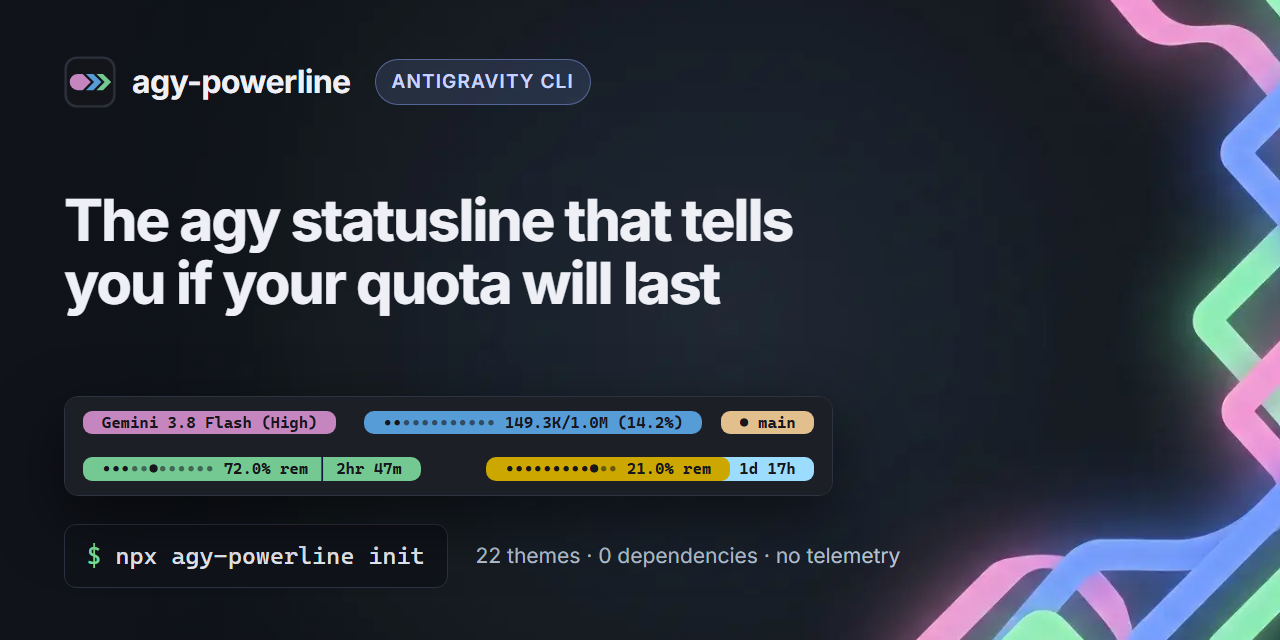
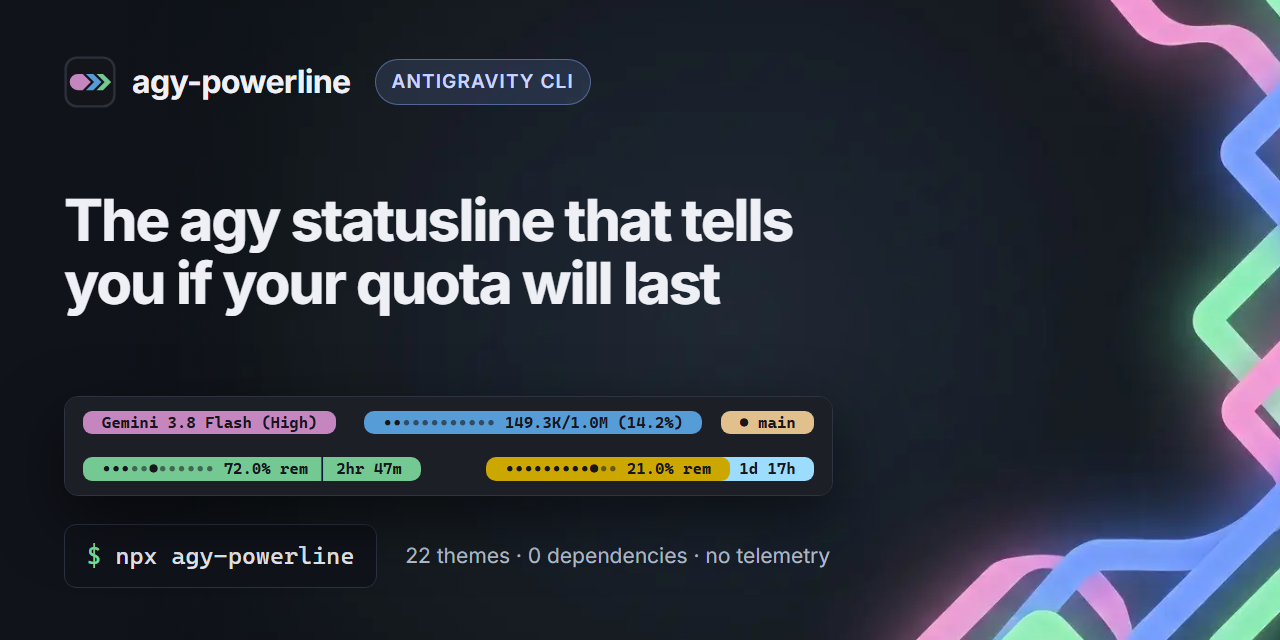
docs(site): align demo GIF, OG cards, and guides with npx agy-powerline
Follows up on #202 / #203 by updating the remaining onboarding copy,
share cards, and terminal demo that still showed `npx agy-powerline init`
or `npx agy-powerline configure` as the starting command:

- Regenerate `assets/site/og/*.jpg` and `assets/site/github-social-preview.png`
  with `$ npx agy-powerline` via updated `scripts/site/images.js`.
- Update `scripts/gallery/build.js` hero command box and `tests/shared/gallery.test.js`
  home-page install command check to `npx agy-powerline`.
- Update localized onboarding steps (`en`, `fr`, `es`, `ja`) in
  `scripts/site/home-text.js`, `scripts/site/build.js`, and
  `scripts/configurator/template.html`.
- Update `docs/faq.md` and `docs/guides/` (`add-statusline-to-antigravity-cli`,
  `antigravity-quota`, `moving-from-gemini-cli`, `workshop`) to lead with
  `npx agy-powerline` while keeping `init --yes` for scripted upgrades.
- Update `scripts/demo/demo.tape` to isolate `$env:HOME`/`$env:USERPROFILE`
  alongside `$env:AGY_POWERLINE_HOME`, run `npx agy-powerline`, and re-record
  `assets/demo.gif`.

Note: `assets/screenshots/windows.png` still needs recapture from a
non-sandboxed Windows Terminal session because `window.ps1` cannot
retain/capture visible WT windows from the isolated desktop.

Changed region(s): [[0.2812, 0.8438, 0.7188, 0.9062]]

diff --git a/scripts/site/home-text.js b/scripts/site/home-text.js
@@ -56,12 +56,12 @@ const HOME_TEXT = {
     steps: [
       [
         "Install",
-        "Needs Node.js 20 or newer and Antigravity CLI. <code>init</code> backs up agy's <code>settings.json</code> before changing it.",
-        "npx agy-powerline init",
+        "Needs Node.js 20 or newer and Antigravity CLI. Backs up agy's <code>settings.json</code> before changing it, then opens the live editor.",
+        "npx agy-powerline",
       ],
       [
         "Pick a look",
-        "Choose a preset, a layout and a theme when <code>init</code> asks, with a preview of each. Change them any time.",
+        "Browse presets, layouts, themes and widgets with a live preview during setup, or reopen the editor any time.",
         "npx agy-powerline configure",
       ],
       [
@@ -240,12 +240,12 @@ const HOME_TEXT = {
     steps: [
       [
         "Installer",
-        "Il faut Node.js 20 ou plus récent et Antigravity CLI. <code>init</code> sauvegarde le <code>settings.json</code> d'agy avant de le modifier.",
-        "npx agy-powerline init",
+        "Il faut Node.js 20 ou plus récent et Antigravity CLI. Sauvegarde le <code>settings.json</code> d'agy avant de le modifier, puis ouvre l'éditeur en direct.",
+        "npx agy-powerline",
       ],
       [
         "Choisir un style",
-        "Choisissez un préréglage, une disposition et un thème quand <code>init</code> le demande, avec un aperçu de chacun. Modifiables à tout moment.",
+        "Parcourez préréglages, dispositions, thèmes et widgets avec un aperçu en direct lors de l'installation, ou rouvrez l'éditeur à tout moment.",
         "npx agy-powerline configure",
       ],
       [
@@ -424,12 +424,12 @@ const HOME_TEXT = {
     steps: [
       [
         "Instalar",
-        "Necesita Node.js 20 o más reciente y Antigravity CLI. <code>init</code> guarda una copia del <code>settings.json</code> de agy antes de cambiarlo.",
-        "npx agy-powerline init",
+        "Necesita Node.js 20 o más reciente y Antigravity CLI. Guarda una copia del <code>settings.json</code> de agy antes de cambiarlo y abre el editor en vivo.",
+        "npx agy-powerline",
       ],
       [
         "Elegir un estilo",
-        "Elige un preajuste, un diseño y un tema cuando <code>init</code> te lo pida, con una vista previa de cada uno. Puedes cambiarlos cuando quieras.",
+        "Explora preajustes, diseños, temas y widgets con vista previa en vivo al instalar, o vuelve a abrir el editor cuando quieras.",
         "npx agy-powerline configure",
       ],
       [
@@ -600,12 +600,12 @@ const HOME_TEXT = {
     steps: [
       [
         "インストール",
-        "Node.js 20 以上と Antigravity CLI が必要です。<code>init</code> は agy の <code>settings.json</code> を変更する前にバックアップします。",
-        "npx agy-powerline init",
+        "Node.js 20 以上と Antigravity CLI が必要です。agy の <code>settings.json</code> を変更する前にバックアップし、ライブエディタを開きます。",
+        "npx agy-powerline",
       ],
       [
         "見た目を選ぶ",
-        "<code>init</code> の質問に沿って、プリセット、レイアウト、テーマをプレビューを見ながら選びます。あとからいつでも変更できます。",
+        "セットアップ中にプリセット、レイアウト、テーマ、ウィジェットをプレビューしながら選べます。あとからいつでも開き直せます。",
         "npx agy-powerline configure",
       ],
       [

diff --git a/scripts/site/build.js b/scripts/site/build.js
@@ -71,7 +71,7 @@ const MARKDOWN_PAGES = [
     name: "Install",
     title: "Install agy-powerline - agy statusline setup",
     description:
-      "Install the agy statusline with npx agy-powerline init: what init changes, the agy plugin route, installing without npm, WSL, upgrading and removing it.",
+      "Install the agy statusline with npx agy-powerline: what setup changes, the agy plugin route, installing without npm, WSL, upgrading and removing it.",
   },
   {
     source: "docs/configuration.md",
@@ -561,7 +561,7 @@ function docsIndexPage() {
           [
             "/install/",
             "Install",
-            "What npx agy-powerline init does, the plugin route, no-npm installs, WSL, upgrades.",
+            "What npx agy-powerline does, the plugin route, no-npm installs, WSL, upgrades.",
           ],
           [
             "/docs/configuration/",
@@ -772,7 +772,7 @@ function calculatorPage() {
         <p>A quota window has a fixed length: 5 hours or 7 days. The time left until the reset tells how far into the window you are; with 2 hours left of a 5-hour window, 60% of it has passed. If you've used more of the quota than that share of time, you're using it faster than time passes, and at that pace it runs out before it resets.</p>
         <p>The calculator assumes you keep the pace you've had since the window started. The bar below the inputs is the same as agy-powerline's quota meter: the filled part is the quota used, and the marker is where you are in the window. Fill past the marker means trouble.</p>
         <h2 id="in-your-terminal">See it live in your terminal</h2>
-        <p>agy-powerline draws this meter for every quota in agy's status bar and keeps it up to date while you work, with a caution color at 30% left and a danger color at 10%. Install it with <code>npx agy-powerline init</code> and read the <a href="/guides/antigravity-quota/">quota guide</a>.</p>`;
+        <p>agy-powerline draws this meter for every quota in agy's status bar and keeps it up to date while you work, with a caution color at 30% left and a danger color at 10%. Install it with <code>npx agy-powerline</code> and read the <a href="/guides/antigravity-quota/">quota guide</a>.</p>`;
   const script = `${paceCode}
 (function () {
   const P = window.AgyQuotaPace;

diff --git a/scripts/configurator/template.html b/scripts/configurator/template.html
@@ -758,10 +758,10 @@
           When it looks right, download the file and run
           <code>npx agy-powerline import statusline.config.json</code>: it shows what will change
           and asks before applying. Don't have agy-powerline yet? Run
-          <code>npx agy-powerline init</code> first (<a href="/install/">install guide</a>).
-          Everything happens in your browser: nothing is uploaded, and a share link keeps the config
-          after the <code>#</code>, which browsers never send to a server. Every option is described
-          in the <a href="/docs/configuration/">configuration reference</a>.
+          <code>npx agy-powerline</code> first (<a href="/install/">install guide</a>). Everything
+          happens in your browser: nothing is uploaded, and a share link keeps the config after the
+          <code>#</code>, which browsers never send to a server. Every option is described in the
+          <a href="/docs/configuration/">configuration reference</a>.
         </p>
       </section>
     </main>

diff --git a/scripts/site/images.js b/scripts/site/images.js
@@ -194,7 +194,7 @@ h1 { margin: 0; align-self: center; font-size: ${size}px; font-weight: 750; line
   <div class="top">${logo}<span class="brand">agy-powerline</span><span class="label">${esc(label)}</span></div>
   <h1>${esc(title)}</h1>
   <div class="term-frame" data-bg="dark"><div class="term" data-bg="dark"><div class="screen">${bar(78, lang)}</div></div></div>
-  <div class="foot"><span class="cmd"><code><span class="prompt">$ </span>npx agy-powerline init</code></span><span class="facts">${facts}</span></div>
+  <div class="foot"><span class="cmd"><code><span class="prompt">$ </span>npx agy-powerline</code></span><span class="facts">${facts}</span></div>
 </div>
 </body>
 </html>`;

diff --git a/tests/shared/gallery.test.js b/tests/shared/gallery.test.js
@@ -96,7 +96,7 @@ async function run() {
 
   record(
     "the home page leads with the install command and the configurator",
-    /<div class="cmd cmd-lg"><code tabindex="0"><span class="prompt" aria-hidden="true">\$ <\/span>npx agy-powerline init<\/code>/.test(
+    /<div class="cmd cmd-lg"><code tabindex="0"><span class="prompt" aria-hidden="true">\$ <\/span>npx agy-powerline<\/code>/.test(
       html
     ) && html.includes('href="/configure/"')
   );

diff --git a/scripts/gallery/build.js b/scripts/gallery/build.js
@@ -440,7 +440,7 @@ function buildHomeHtml({ lang = "en" } = {}) {
   const n = counts();
   const styles = styleClasses();
   const sections = {
-    INSTALL_CMD: commandBox("npx agy-powerline init", {
+    INSTALL_CMD: commandBox("npx agy-powerline", {
       label: text.copyInstall,
       copy: text.copy,
       large: true,

diff --git a/docs/faq.md b/docs/faq.md
@@ -8,15 +8,15 @@ A status line for Google Antigravity CLI (`agy`): a small Node.js script that ag
 
 ## How do I install it?
 
-Run `npx agy-powerline init` with Node.js 20 or newer, then restart agy once. `init` asks for a preset, a layout and a theme, and backs up agy's `settings.json` before changing it. See [Installation details](install.md).
+Run `npx agy-powerline` with Node.js 20 or newer, then restart agy once. It backs up agy's `settings.json` before changing it and opens the live editor to pick a preset, a layout and a theme. See [Installation details](install.md).
 
 ## Does it work on Windows?
 
-Yes: Windows, macOS, Linux and WSL. On Windows agy runs the bar through `cmd /c`, which `init` sets up for you. For WSL, install it with a Linux Node.js inside WSL ([WSL notes](install.md#wsl)).
+Yes: Windows, macOS, Linux and WSL. On Windows agy runs the bar through `cmd /c`, which `npx agy-powerline` sets up for you. For WSL, install it with a Linux Node.js inside WSL ([WSL notes](install.md#wsl)).
 
 ## Do I need to restart agy?
 
-Once, after `init`, so agy reads the new `statusLine` setting. After that, changes you make with `configure`, `theme`, `layout` or the other commands show on the bar's next refresh, without a restart.
+Once, after installing, so agy reads the new `statusLine` setting. After that, changes you make with `configure`, `theme`, `layout` or the other commands show on the bar's next refresh, without a restart.
 
 ## Does it send any data anywhere?
 
@@ -44,7 +44,7 @@ No. agy-powerline reads its config only from `~/.agy-powerline` (or the folder i
 
 ## How do I update it?
 
-Run `npx agy-powerline init --yes`, then restart agy. Your config is kept. `npx agy-powerline doctor` tells you when the installed scripts are older than the CLI. See [Upgrading](install.md#upgrading).
+Run `npx agy-powerline` (or `npx agy-powerline init --yes` without the editor), then restart agy. Your config is kept. `npx agy-powerline doctor` tells you when the installed scripts are older than the CLI. See [Upgrading](install.md#upgrading).
 
 ## Can I install it without npm?
 
@@ -52,7 +52,7 @@ Yes. Each [GitHub release](https://github.com/wassim-azi/agy-powerline/releases)
 
 ## How do I remove it?
 
-`npx agy-powerline uninstall` puts agy's own bar back; add `--delete` to remove the files `init` installed. See [Uninstalling](install.md#uninstalling).
+`npx agy-powerline uninstall` puts agy's own bar back; add `--delete` to remove the files it installed. See [Uninstalling](install.md#uninstalling).
 
 ## Where do I report a bug or ask for a feature?
 

diff --git a/docs/guides/add-statusline-to-antigravity-cli.md b/docs/guides/add-statusline-to-antigravity-cli.md
@@ -1,6 +1,6 @@
 # How to add a status line to Antigravity CLI
 
-Antigravity CLI (`agy`) can run a command of your choice to draw its status bar. You set it under `statusLine` in `~/.gemini/antigravity-cli/settings.json`; agy runs it on every refresh, pipes the session as JSON on its standard input, and shows what it prints. The quickest way to set one up is `npx agy-powerline init`, then one restart of agy.
+Antigravity CLI (`agy`) can run a command of your choice to draw its status bar. You set it under `statusLine` in `~/.gemini/antigravity-cli/settings.json`; agy runs it on every refresh, pipes the session as JSON on its standard input, and shows what it prints. The quickest way to set one up is `npx agy-powerline`, then one restart of agy.
 
 - [The one-command setup](#the-one-command-setup)
 - [The statusLine setting](#the-statusline-setting)
@@ -13,10 +13,10 @@ Antigravity CLI (`agy`) can run a command of your choice to draw its status bar.
 You need Node.js 20 or newer and agy.
 
 ```bash
-npx agy-powerline init
+npx agy-powerline
 ```
 
-`init` copies the status line script to `~/.agy-powerline`, adds the `statusLine` entry to agy's `settings.json`, and asks for a preset, a layout and a theme with a preview of each. It asks before replacing anything and keeps a backup of `settings.json`. Restart agy once so it reads the new setting. [What `init` does](../install.md#what-init-does) covers every step.
+It copies the status line script to `~/.agy-powerline`, adds the `statusLine` entry to agy's `settings.json`, and opens the live-preview editor so you can pick a preset, a layout and a theme. It asks before replacing anything and keeps a backup of `settings.json`. Restart agy once so it reads the new setting. [What setup does](../install.md#what-init-does) covers every step.
 
 From inside agy you can also install agy-powerline as a plugin and let its setup skill run `init` for you ([Install from inside agy](../install.md#install-from-inside-agy-plugin)).
 

diff --git a/docs/guides/antigravity-quota.md b/docs/guides/antigravity-quota.md
@@ -1,6 +1,6 @@
 # See your Antigravity quota while you work
 
-Antigravity CLI limits how much you can use each model over a 5-hour window and over a 7-day window. agy-powerline shows how much of each quota is left, when it resets and whether you are using it faster than time passes, in agy's status bar, on every refresh. Install it with `npx agy-powerline init` and restart agy once.
+Antigravity CLI limits how much you can use each model over a 5-hour window and over a 7-day window. agy-powerline shows how much of each quota is left, when it resets and whether you are using it faster than time passes, in agy's status bar, on every refresh. Install it with `npx agy-powerline` and restart agy once.
 
 - [The quota windows](#the-quota-windows)
 - [Read the quota meters](#read-the-quota-meters)

diff --git a/docs/guides/moving-from-gemini-cli.md b/docs/guides/moving-from-gemini-cli.md
@@ -16,10 +16,10 @@ agy keeps its settings in `~/.gemini/antigravity-cli/settings.json` (on Windows,
 You need Node.js 20 or newer.
 
 ```bash
-npx agy-powerline init
+npx agy-powerline
 ```
 
-`init` asks three questions, each with a preview of the bar it gives: a preset (which widgets), a layout (powerline pills, plain lines or classic text) and a theme for your terminal's background. Then restart agy once.
+It installs the status bar, wires `settings.json` with a backup, and opens the live-preview editor so you can pick a preset (which widgets), a layout (powerline pills, plain lines or classic text) and a theme for your terminal's background. Then restart agy once.
 
 Prefer to stay inside agy? Install agy-powerline as a plugin and run its setup skill:
 

diff --git a/docs/guides/workshop.md b/docs/guides/workshop.md
@@ -38,10 +38,10 @@ npx agy-powerline render --demo
 **Run:**
 
 ```bash
-npx agy-powerline init
+npx agy-powerline
 ```
 
-`init` asks for a preset, a layout and a theme, each with a preview. Enter keeps the default. Then everyone restarts agy and sends it a message, to see the bar under the input box.
+It installs the status bar and opens a live-preview editor where everyone picks a preset, a layout and a theme. Then everyone restarts agy and sends it a message, to see the bar under the input box.
 
 **If it doesn't show:** `npx agy-powerline doctor` checks the install and says what's wrong.
 
